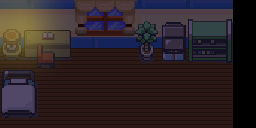
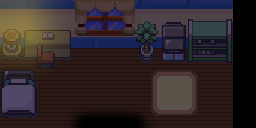
The world + physx

Changed region(s): [[0.5938, 0.5625, 0.7812, 0.9062], [0.2812, 0.875, 0.5625, 1.0]]

diff --git a/src/States/MainState.cpp b/src/States/MainState.cpp
@@ -7,8 +7,7 @@
 #define S_EXT ".ogg"
 #endif
 
-MainState::MainState()
-{
+MainState::MainState(){
 	
 }
 
@@ -20,19 +19,66 @@ void MainState::init()
 	ambient->Play();
 	roomManager = new RoomManager();
 	
-	bedroomTex = GFX::g_TextureManager->loadTex("./assets/bedroom-lit.png", GFX_FILTER_NEAREST, GFX_FILTER_NEAREST, false);
+	bedroomTex = GFX::g_TextureManager->loadTex("./assets/bedroom.png", GFX_FILTER_NEAREST, GFX_FILTER_NEAREST, false);
 	bedroom = new GFX::Render2D::Sprite(bedroomTex);
 	bedroom->setScale(3.0f, 3.0f);
 	roomManager->addRoom(Room::BedRoom, bedroom);
 
 	std::vector<glm::vec4>* vec = new std::vector<glm::vec4>();
-
 	vec->push_back({ -128, -10, 550, 200 });
 	vec->push_back({ -128, 165, 100, 200 });
 	vec->push_back({ 250, 165, 550, 200 });
 	vec->push_back({ -128, 16, -32, 160 });
-	
 	roomManager->addBounds(Room::BedRoom, vec);
+
+	nurseryTex = GFX::g_TextureManager->loadTex("./assets/nursery.png", GFX_FILTER_NEAREST, GFX_FILTER_NEAREST, false);
+	nursery = new GFX::Render2D::Sprite(nurseryTex);
+	nursery->setScale(3.0f, 3.0f);
+	roomManager->addRoom(Room::Nursery, nursery);
+
+	std::vector<glm::vec4>* vec3 = new std::vector<glm::vec4>();
+	vec3->push_back({ -8, -56, 500, 300 });
+	vec3->push_back({ -8, 280, 96, 300 });
+	vec3->push_back({ 180, 280, 300, 300 });
+	vec3->push_back({ 180, 80, 280, 200 });
+	roomManager->addBounds(Room::Nursery, vec3);
+
+	guestTex = GFX::g_TextureManager->loadTex("./assets/guest.png", GFX_FILTER_NEAREST, GFX_FILTER_NEAREST, false);
+	guest = new GFX::Render2D::Sprite(guestTex);
+	guest->setScale(3.0f, 3.0f);
+	roomManager->addRoom(Room::Guest, guest);
+
+	std::vector<glm::vec4>* vec4 = new std::vector<glm::vec4>();
+	vec4->push_back({ 52, 4, 412, 272 });
+	vec4->push_back({ 312, 144, 412, 272 });
+	vec4->push_back({ 52, 144, 152, 272 });
+	vec4->push_back({ 52, 232, 224, 272 });
+	vec4->push_back({ 260, 232, 412, 272 });
+	roomManager->addBounds(Room::Guest, vec4);
+
+
+	hallwayTex = GFX::g_TextureManager->loadTex("./assets/hallway.png", GFX_FILTER_NEAREST, GFX_FILTER_NEAREST, false);
+	hallway = new GFX::Render2D::Sprite(hallwayTex);
+	hallway->setScale(3.0f, 3.0f);
+	roomManager->addRoom(Room::Hallway, hallway);
+
+	std::vector<glm::vec4>* vec2 = new std::vector<glm::vec4>();
+	vec2->push_back({ -400, -240, 840, 700 }); //Main box
+	vec2->push_back({ 248, -240, 1200, 440 }); //Hall r
+	vec2->push_back({ -1200, -240, 32, 440 }); //Hall L
+	vec2->push_back({ -1200, 440, -312, 540 }); //Bot
+	vec2->push_back({ 732, 440, 840, 544 }); //Bot
+	vec2->push_back({ 768, 640, 840, 700 });
+	vec2->push_back({ 360, 668, 716, 700 });
+	vec2->push_back({ -200, 668, 16, 700 });
+	roomManager->addBounds(Room::Hallway, vec2);
+
+	roomManager->switchRoom(Room::Guest);
+
+	vignetteTex = GFX::g_TextureManager->loadTex("./assets/vignette.png", GFX_FILTER_NEAREST, GFX_FILTER_NEAREST, false);
+	vignette = new GFX::Render2D::Sprite(vignetteTex);
+	vignette->setPosition(240, 136);
+
 }
 
 void MainState::cleanup()
@@ -41,6 +87,9 @@ void MainState::cleanup()
 	delete ambient;
 	delete player;
 	delete roomManager;
+
+	delete bedroom;
+	GFX::g_TextureManager->deleteTex(bedroomTex);
 }
 
 void MainState::enter()
@@ -74,4 +123,5 @@ void MainState::draw(Core::GameStateManager* st)
 {
 	roomManager->draw();
 	player->draw();
+	vignette->draw();
 }

diff --git a/src/Player.cpp b/src/Player.cpp
@@ -66,24 +66,15 @@ void Player::update(double dt, RoomManager* rm)
 	const float playerSpeed = 32.0f * 3.2f;
 	glm::vec2 npos = pos;
 	if (Utilities::KeyPressed(GLFW_KEY_DOWN) || Utilities::KeyPressed(GLFW_KEY_S) || Utilities::KeyHold(PSP_CTRL_DOWN)) {
-		if (direction != Direction::Down) {
-			direction = Direction::Down;
+		if (direction != Direction::Top) {
+			direction = Direction::Top;
 		}
-		mainSprite->triggerAnimEvent("down");
-		npos.y -= playerSpeed * dt;
+		mainSprite->triggerAnimEvent("top");
+		npos.y += playerSpeed * dt;
 		currentTickCount = 0;
 	}
 
 	if (Utilities::KeyPressed(GLFW_KEY_LEFT) || Utilities::KeyPressed(GLFW_KEY_A) || Utilities::KeyHold(PSP_CTRL_LEFT)) {
-		if (direction != Direction::Left) {
-			direction = Direction::Left;
-		}
-		mainSprite->triggerAnimEvent("left");
-		npos.x -= playerSpeed * dt;
-		currentTickCount = 0;
-	}
-
-	if (Utilities::KeyPressed(GLFW_KEY_RIGHT) || Utilities::KeyPressed(GLFW_KEY_D) || Utilities::KeyHold(PSP_CTRL_RIGHT)) {
 		if (direction != Direction::Right) {
 			direction = Direction::Right;
 		}
@@ -91,13 +82,22 @@ void Player::update(double dt, RoomManager* rm)
 		npos.x += playerSpeed * dt;
 		currentTickCount = 0;
 	}
+
+	if (Utilities::KeyPressed(GLFW_KEY_RIGHT) || Utilities::KeyPressed(GLFW_KEY_D) || Utilities::KeyHold(PSP_CTRL_RIGHT)) {
+		if (direction != Direction::Left) {
+			direction = Direction::Left;
+		}
+		mainSprite->triggerAnimEvent("left");
+		npos.x -= playerSpeed * dt;
+		currentTickCount = 0;
+	}
 	
 	if (Utilities::KeyPressed(GLFW_KEY_UP) || Utilities::KeyPressed(GLFW_KEY_W) || Utilities::KeyHold(PSP_CTRL_UP)) {
-		if (direction != Direction::Top) {
-			direction = Direction::Top;
+		if (direction != Direction::Down) {
+			direction = Direction::Down;
 		}
-		mainSprite->triggerAnimEvent("top");
-		npos.y += playerSpeed * dt;
+		mainSprite->triggerAnimEvent("down");
+		npos.y -= playerSpeed * dt;
 		currentTickCount = 0;
 	}
 

diff --git a/src/RoomManager.cpp b/src/RoomManager.cpp
@@ -9,8 +9,9 @@ RoomManager::~RoomManager()
 {
 }
 
-void RoomManager::switchRoom(Room)
+void RoomManager::switchRoom(Room r)
 {
+	currentRoom = r;
 }
 
 void RoomManager::addRoom(Room r, GFX::Render2D::Sprite* s)
@@ -50,9 +51,6 @@ bool RoomManager::checkBounds2(glm::vec2 pos)
 			glm::vec2 bot = { vec.x, vec.y };
 			glm::vec2 top = { vec.z, vec.w };
 
-			//if (!(pos.x > top.x || pos.x < bot.x)) {
-			//	return false;
-			//}
 			if (!(pos.y > top.y || pos.y < bot.y) && !(pos.x > top.x || pos.x < bot.x)) {
 				return false;
 			}

diff --git a/src/main.cpp b/src/main.cpp
@@ -7,6 +7,10 @@ using namespace Stardust;
 auto main() -> int {
 	Platform::initPlatform("DLII");
 
+#if CURRENT_PLATFORM == PLATFORM_WIN
+	Platform::PC::g_Window->setTitle("Don't Let It In");
+#endif
+
 	GFX::g_RenderCore->setClearColor(0.0f, 0.0f, 0.0f, 1.0f);
 	Core::GameStateManager gsm = Core::GameStateManager();
 	SplashState* state = new SplashState();

diff --git a/src/States/MainState.h b/src/States/MainState.h
@@ -29,6 +29,6 @@ private:
 	Audio::AudioClip* ambient;
 	RoomManager* roomManager;
 
-	GFX::Render2D::Sprite* bedroom;
-	unsigned int bedroomTex;
+	GFX::Render2D::Sprite* bedroom, *hallway, *nursery, *guest, *vignette;
+	unsigned int bedroomTex, hallwayTex, nurseryTex, guestTex, vignetteTex;
 };

diff --git a/src/RoomManager.h b/src/RoomManager.h
@@ -7,6 +7,9 @@ using namespace Stardust;
 
 enum class Room {
 	BedRoom = 0,
+	Hallway = 1,
+	Nursery = 2,
+	Guest = 3,
 };
 
 class RoomManager {
